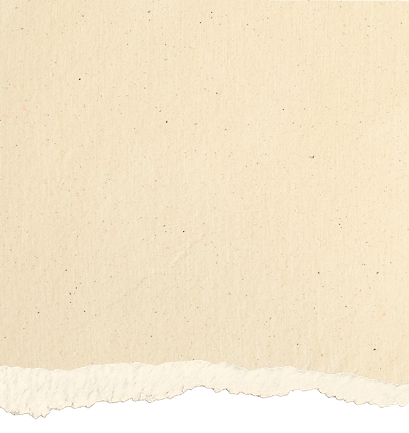
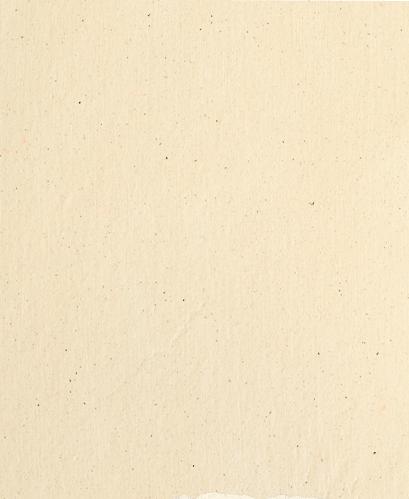
responsive

Changed region(s): [[0.0, 0.8106, 1.0, 1.0]]

diff --git a/public/styles/main.css b/public/styles/main.css
@@ -1627,15 +1627,19 @@ html, body {
     }
 
     /* 4. AJUSTE DE POSICIÓN: Contenedor Beige */
+ /* --- AJUSTE TICKETS SOLO MOBILE --- */
     #tickets .container {
-        background-color: #FFF4CC !important;
+        /* 1. Usamos tu imagen de textura como fondo principal */
+        background-image: url('../assets/img/textura-papel-mobile.png') !important; 
+        background-size: cover;
+        background-position: center;
+        background-repeat: no-repeat;
+        
         position: relative;
         z-index: 5 !important; 
         
-        /* Subimos el bloque beige bajo la foto */
+        /* 2. Mantenemos tus márgenes y paddings originales */
         margin-top: -30px !important; 
-        
-        /* Aumentamos el padding superior para bajar el texto a su lugar original */
         padding: 100px 20px 60px 20px !important; 
         
         width: 100% !important;
@@ -1644,7 +1648,25 @@ html, body {
         flex-direction: column !important;
         align-items: center !important;
         text-align: center !important;
+        
+        /* 3. Limpiamos cualquier pseudo-elemento anterior para que no interfiera */
+        overflow: hidden;
     }
+
+   
+
+    #tickets .ticket-content-overlay {
+        position: relative;
+        z-index: 1; 
+        max-width: 100% !important;
+        width: 100% !important;
+        display: flex !important;
+        flex-direction: column !important;
+        align-items: center !important;
+        padding: 0 !important;
+    }
+
+    
 
     #tickets .ticket-content-overlay {
         max-width: 100% !important;
@@ -1688,7 +1710,7 @@ html, body {
 
     /* 6. Botón Estilo Píldora Naranja */
     .btn-tickets-black {
-        background-color: transparent !important;
+        background-color: #fff4cc73;
         color: #FF6300 !important;
         border: 1px solid #FF6300 !important;
         padding: 12px 30px !important;
